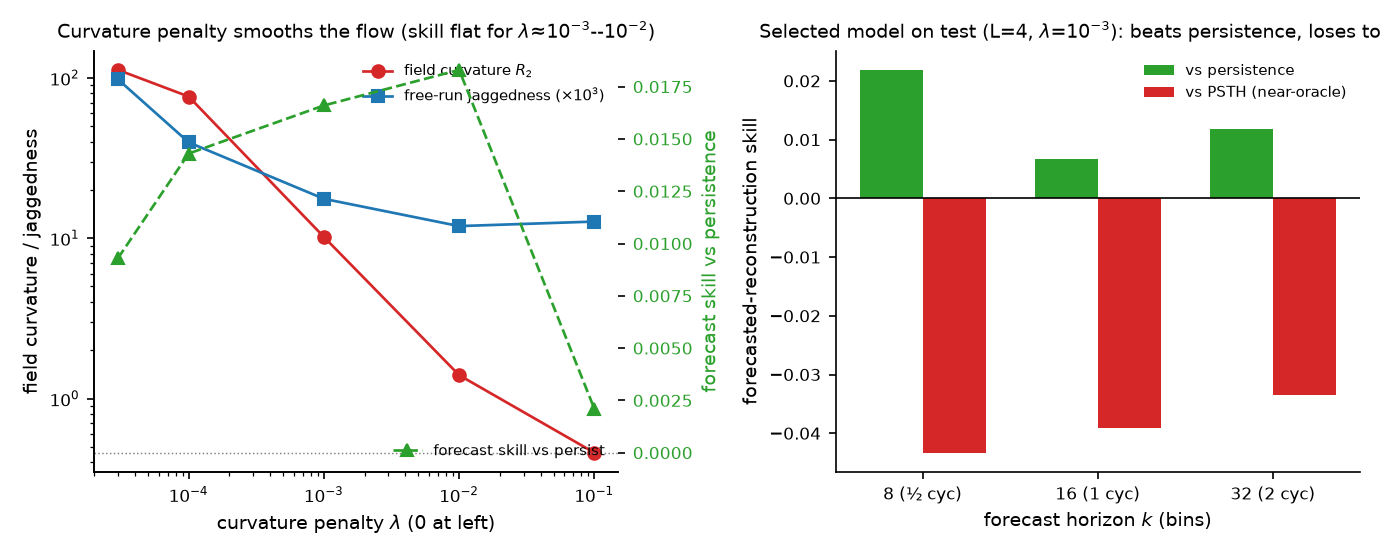
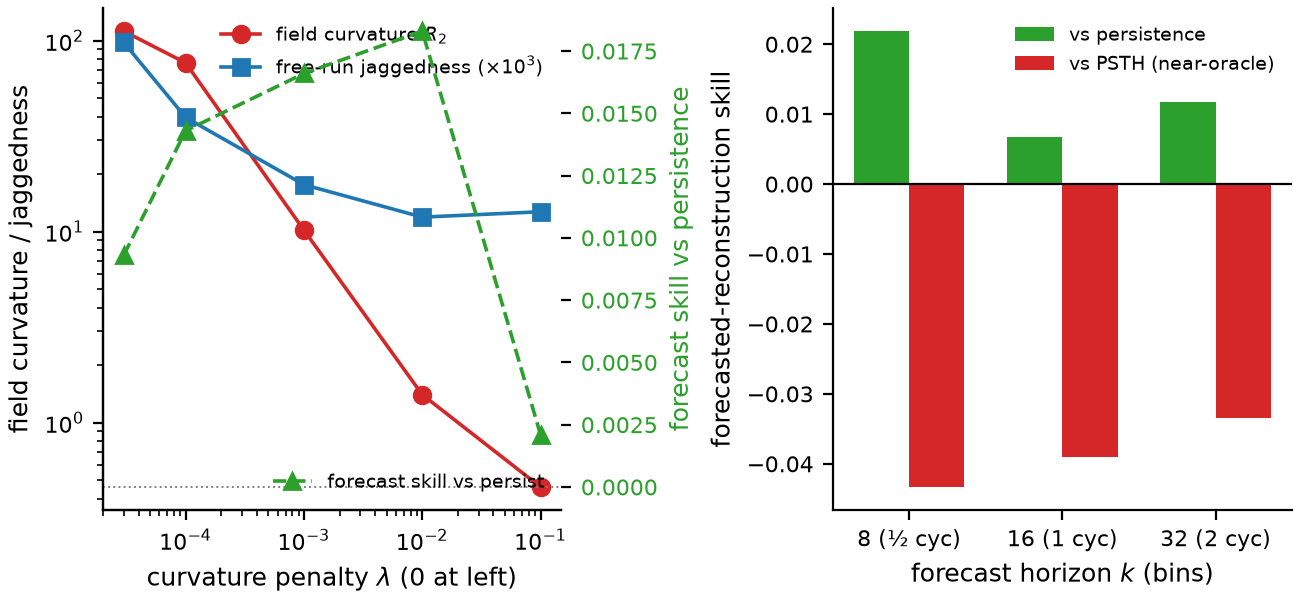
v1_graf: report figures - scale-1.0 fix + time-slice replaces the 3D (paper-figures/tufte)
Applied paper-figures + tufte-viz to the report figures:
- Fixed a scale-1.0 violation: regularization.png was built at 9.2in but included at
  \textwidth (6.5in) -> fonts rendered ~29% small. Now FW(1.0); verified all report PNG
  widths match their include fraction (scale 1.0, consistent fonts). Dropped tight_layout
  (constrained_layout via shared rcParams); dpi 200.
- Replaced the 3D free-run frame (Fig 6) with a TIME-SLICE: each leading PC over time,
  trial-average (gold) + single-trial filtered (teal) + free-run forecast (crimson) with
  the t0 marker. Far clearer than the 3D projection of a contracting flow; it shows the
  forecast relaxing to the mean within ~half a cycle (does not sustain the oscillation).
  forecast_video.py: render_slices() + fix a dark-bg style leak + cache the projected
  paths to npz (so the slice can be re-plotted without retraining).
- Dropped the clipped on-figure titles in Fig 5 (caption carries both panels).
- Report: Fig 6 -> forecast_time.png at \textwidth; caption + results wording corrected
  to "tracks briefly, then relaxes toward the mean" (matches the figure).

Builds clean (7 pp), all figures scale-1.0. 3D mp4 kept as a supplementary artifact.

diff --git a/experiments/v1_graf/forecast_video.py b/experiments/v1_graf/forecast_video.py
@@ -29,6 +29,7 @@ from mpl_toolkits.mplot3d import Axes3D  # noqa: F401 (registers 3d projection)
 from experiments.v1_graf.single_dir import prepare_single_dir_data, _train_eval, SEED
 from experiments.v1_graf.eval import (
     frozen_dynamics, forecast_reconstruction_deviance, forecast_skill_summary)
+from experiments.v1_graf.figstyle import set_style, FW
 
 HERE = os.path.dirname(os.path.abspath(__file__))
 FIGS = os.path.join(HERE, "report_m1", "figs")
@@ -166,7 +167,10 @@ def main():
     pf = (xfilt - ctr) @ B.T                                    # single-trial filtered, (T,3)
     pc = (xfc - ctr) @ B.T                                      # free-run forecast, (T-T0,3)
     pbar = (xbar - ctr) @ B.T                                   # trial-average reference, (T,3)
+    np.savez(os.path.join(VID, "forecast_paths.npz"), pf=pf, pc=pc, pbar=pbar,
+             t0=T0, trial_i=best_i)                             # so the slice can be re-plotted w/o retraining
     render(pf, pc, pbar, T0, cfg, res, data, best_i, timing)
+    render_slices(pf, pc, pbar, T0, cfg, res, data, best_i)
 
     with open(os.path.join(VID, "forecast_3d_timing.json"), "w") as fh:
         json.dump({"config": cfg, "test_trial": best_i, "best_trial_S_persist": best_s,
@@ -238,6 +242,34 @@ def render(pf, pc, pbar, t0, cfg, res, data, trial_i, timing):
     ax.view_init(elev=24, azim=48)
     fig.savefig(os.path.join(VID, "forecast_3d.png"), dpi=150, facecolor=fig.get_facecolor())
     plt.close(fig)
+
+
+def render_slices(pf, pc, pbar, t0, cfg, res, data, trial_i):
+    """Time-slice view (clearer than the 3D projection of a contracting flow): each leading PC
+    over time -- the trial-average reference (gold), the single-trial filtered latent (teal), and
+    the free-run forecast (crimson) launched at t0. Shows the forecast tracking the cycle for
+    only briefly, then relaxing toward the mean."""
+    plt.style.use("default")                                    # render() left dark_background global
+    set_style()                                                 # back to the light report style
+    n = pf.shape[1]
+    teal, crim, gold = "#1b9e9a", "#d6336c", "#c8920a"
+    fig, axes = plt.subplots(n, 1, figsize=(FW(1.0), 1.15 * n + 0.5), sharex=True)  # scale-1.0 at \textwidth
+    t = np.arange(pf.shape[0])
+    tfc = np.arange(t0, t0 + pc.shape[0])
+    for d in range(n):
+        ax = axes[d]
+        ax.plot(t, pbar[:, d], color=gold, lw=2.3, alpha=0.9,
+                label="trial-average (high-SNR ref.)")
+        ax.plot(t, pf[:, d], color=teal, lw=1.2, alpha=0.95, label="filtered (single trial)")
+        ax.plot(tfc, pc[:, d], color=crim, lw=1.9, label="free-run forecast (no obs.)")
+        ax.axvline(t0, color="0.5", ls="--", lw=0.8)
+        ax.set_ylabel(f"PC{d + 1}")
+    axes[-1].set_xlabel("time (10 ms bins;  dashed = forecast start, end of cycle 1)")
+    axes[0].legend(fontsize=6.5, loc="upper right", ncol=1, framealpha=0.9)
+    for ext in ("png", "pdf"):                                  # constrained_layout (RC); no tight_layout
+        fig.savefig(os.path.join(FIGS, f"forecast_time.{ext}"), dpi=200)
+    plt.close(fig)
+    print(f"[video] time-slices -> {FIGS}/forecast_time.png")
 
 
 if __name__ == "__main__":

diff --git a/experiments/v1_graf/report_m1/report.tex b/experiments/v1_graf/report_m1/report.tex
@@ -311,7 +311,7 @@ roughness (mean second difference) drops $\sim$\num{8}-fold, with the forecast s
 through $\lambda\!\sim\!10^{-3}$ before over-regularization flattens the field toward
 persistence (\cref{fig:reg}A); $\lambda\!\gtrsim\!1$ destabilizes the gradient step. At the
 selected $\lambda{=}10^{-3}$ the held-out free-run is a smooth trajectory that tracks the
-trial-averaged cycle for the first part of the horizon and then relaxes inward
+cycle only briefly before relaxing toward the mean
 (\cref{fig:freerun}), in contrast to the jagged collapse without the penalty. The penalty does
 \emph{not} change the forecast skill, however: on the test trials the smoothed flow
 ($S\approx{+}0.015$) and the unregularized flow ($S\approx{+}0.019$) are within noise of each
@@ -337,15 +337,15 @@ does not beat the trial average.
 
 \begin{figure}[t]
   \centering
-  \includegraphics[width=0.82\textwidth]{forecast_3d.png}
+  \includegraphics[width=\textwidth]{forecast_time.png}
   \caption{Held-out free-run forecast of the regularized model ($L{=}4$, \num{1600} RBF,
-    $\lambda{=}10^{-3}$), latent projected to its first three PCs (a frame from the rotating
-    video). \textbf{Gold:} the trial-averaged latent -- the high-SNR reference cycle.
-    \textbf{Teal:} the single-trial filtered latent (with spikes). \textbf{Crimson:} the
-    autonomous free-run launched at the end of the first cycle (star), with \emph{no}
-    observations after $t_0$. The curvature penalty yields a smooth free-run that tracks the
-    cycle initially and then relaxes inward (a smooth contracting flow) -- not the
-    high-frequency collapse of the unregularized field.}
+    $\lambda{=}10^{-3}$) over time, each leading PC on one test trial. \textbf{Gold:} the
+    trial-averaged latent -- the high-SNR reference cycle. \textbf{Teal:} the single-trial
+    filtered latent (with spikes). \textbf{Crimson:} the autonomous free-run launched at the
+    end of the first cycle (dashed line), with \emph{no} observations after $t_0$. The smoothed
+    free-run tracks the cycle only briefly, then relaxes toward the mean (a smooth contracting
+    flow) -- not the high-frequency collapse of the unregularized field, but it does not sustain
+    the oscillation either, consistent with its loss to the PSTH.}
   \label{fig:freerun}
 \end{figure}
 

diff --git a/experiments/v1_graf/regularization_figure.py b/experiments/v1_graf/regularization_figure.py
@@ -16,7 +16,7 @@ import matplotlib
 matplotlib.use("Agg")
 import matplotlib.pyplot as plt
 
-from experiments.v1_graf.figstyle import set_style
+from experiments.v1_graf.figstyle import set_style, FW
 
 HERE = os.path.dirname(os.path.abspath(__file__))
 FIGS = os.path.join(HERE, "report_m1", "figs")
@@ -34,7 +34,7 @@ SKILL = [0.0093, 0.0143, 0.0166, 0.0183, 0.0021, -2.1854, -0.5977]  # S_persist 
 def main():
     set_style()
     os.makedirs(FIGS, exist_ok=True)
-    fig, (axA, axB) = plt.subplots(1, 2, figsize=(9.2, 3.7))
+    fig, (axA, axB) = plt.subplots(1, 2, figsize=(FW(1.0), 3.0))   # scale-1.0 at \textwidth
 
     # Panel A: bracket (stable regime lambda <= 1e-1; lambda>=1 destabilizes the SGD).
     keep = [i for i, l in enumerate(LAM) if l <= 0.1]
@@ -51,7 +51,7 @@ def main():
     axt.set_ylabel("forecast skill vs persistence", color="C2")
     axt.tick_params(axis="y", labelcolor="C2")
     axt.legend(fontsize=7, loc="lower right")
-    axA.set_title("Curvature penalty smooths the flow (skill flat for $\\lambda\\!\\approx\\!10^{-3}$--$10^{-2}$)")
+    # titles dropped: the caption carries both panels (paper-figures: on-figure titles optional)
 
     # Panel B: selected config on the reserved TEST set, skill vs horizon, both baselines.
     te = json.load(open(os.path.abspath(TESTEVAL)))["0.001"]
@@ -66,12 +66,9 @@ def main():
     axB.set_xlabel("forecast horizon $k$ (bins)")
     axB.set_ylabel("forecasted-reconstruction skill")
     axB.legend(fontsize=7)
-    axB.set_title(f"Selected model on test (L=4, $\\lambda$=$10^{{-3}}$): "
-                  f"beats persistence, loses to PSTH")
 
-    fig.tight_layout()
-    for ext in ("png", "pdf"):
-        fig.savefig(os.path.join(FIGS, f"regularization.{ext}"), dpi=150)
+    for ext in ("png", "pdf"):                                  # constrained_layout (RC); no tight_layout
+        fig.savefig(os.path.join(FIGS, f"regularization.{ext}"), dpi=200)
     plt.close(fig)
     print(f"saved -> {FIGS}/regularization.png")
     print(f"  selected on TEST: PLL {te['test_pll']:.3f} (ceil {te['pll_ceiling']:.3f}) "
